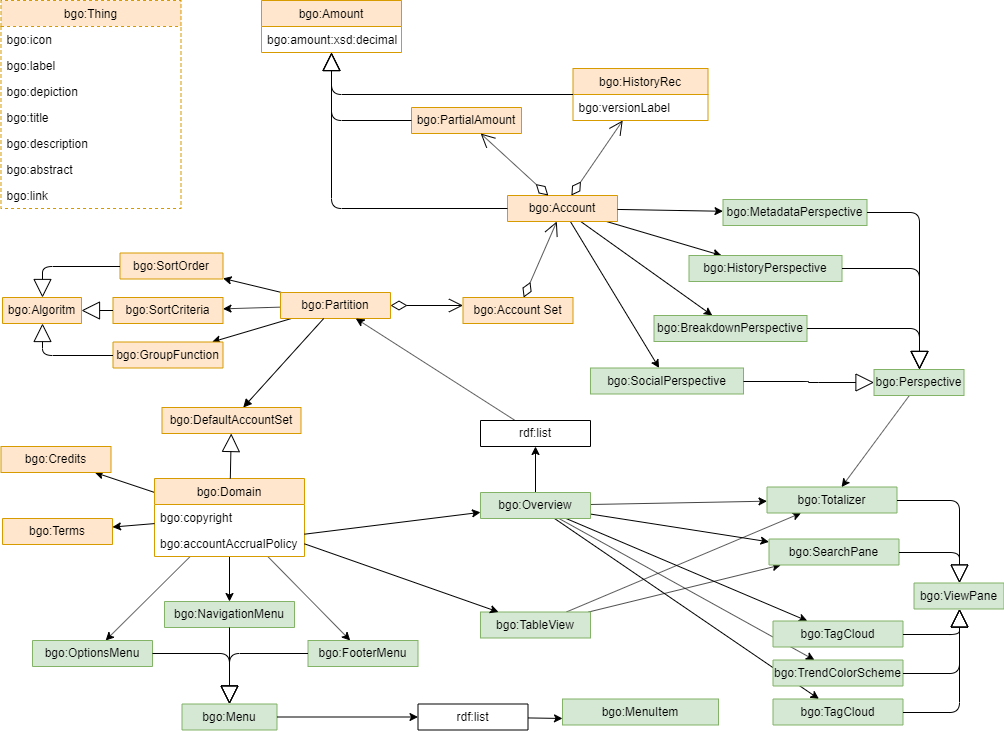
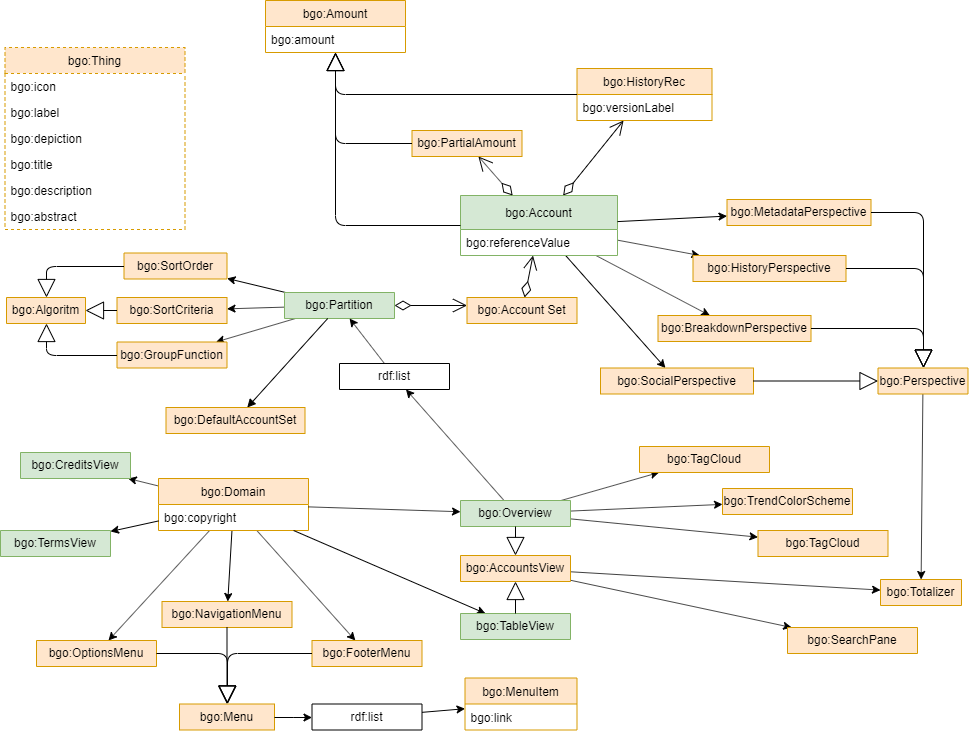
Doc refined

diff --git a/v1/bgo/README.md b/v1/bgo/README.md
@@ -8,38 +8,35 @@ The namespace for BGO is *http://linkeddata.center/lodmap-bgo/v1#*
 
 The suggested prefix for the BGO namespace is *bgo*
 
-BGO is modeled around the following classes:
-- **Account**  a versionable quantity representable with a shape (e.g., a bubble) 
-- **Domain** the set of all Accounts that share the same meaning, for instance, all the facts defined in the financial reports of a company.
-- **Partition** a collection of disjoined Account set related through the use of some **Algorithms**
+BGO is modeled around the following core classes:
 
-An account admits some **Perspectives** that highlight specific aspects (e.g., historical, decomposition, social)
+- **Account** an a-dimensional amount with an oprional reference value; normally representable with a shape (e.g., a bubble) 
+- **Domain** the set of known Accounts; for instance, all the facts defined in the financial reports of a company.
 
-Beside this, bgo defines some standard views to display accounts:
+All accounts in a *Domain* can be rapresented as a paged list of accounts (**TableView**) or as whole in a big picture (**Overview**).
 
-- the **Overview** that displaies all Accounts in a domain big picture 
-- the **Table view** that is just a paged view of the Overview.
+The overview allow to select one **Partition** from a list. A Partition is collection of disjoined **account sub set** in a domain organized through some *Algorithms*. A partition alwais contains (implicitelly or explicitelly) a **Default Account sub Set** that collects all account in the domain that are not explicitelly defined in an account subset of the partition. 
 
-Many attributes in BGO are sub-properties of homonymous properties defined in well-known vocabularies like Dublin Core Terms, W3C Cube vocabulary, and SKOS.
+Beside these, bgo defines some concepts to describe how to present/visualize/navigate specific
+aspects of an Account or a o a domain. For instance, an account admits some *Perspectives* that highlight specific aspects like metadata view (mandatory), historical evolution, breackdown, decomposition, social impacts.
 
-Semantic relationships are crucial to the definition of concepts. However, next to these structured characterizations, 
-Concepts sometimes have to be further defined using human-readable ("informal") documentation. All concepts in bgo can be annotated with:
+
+Semantic relationships are crucial to the definition of concepts. However, next to these structured characterizations, concepts have to be further defined using human-readable ("informal") documentation. A bgo (**Things**) can be annotated a set of properties derived from well-known vocabularies like Dublin Core Terms, Foaf, and SKOS.:
 
 - **icon** : a sub-property of foaf:thumbnail;
 - **depiction** : a sub-property of foaf:depiction;
 - **label**: a sub-property of skos:prefLabel;
-- **title**, **description**, **abstract* : as sub-properties of homonymous Dublin Core properties;
-- **link* : as sub-properties of rdfs:seeAlso
+- **title**, **description**, **abstract** : as sub-properties of homonymous Dublin Core properties;
 
-Icons and depiction expect a URL as a range, all other properties should be RDF string litterals or
- bgo:MDString that is a custom data type to define a string literal that should be diplayed according
+Icons and depiction expect a URL image as a range, all other properties should be RDF string litterals or
+ bgo:MDString that is a custom data type to define a string that should be diplayed according
  [Markdown](https://commonmark.org/) rendering specifications.
 
 The following picture shows the main concepts and attribute relations defined by bgo:
 
 ![UML diagram](doc/uml-diagram.png)
 
-Green boxes are user interface concepts, orange boxes are data modelling concepts.
+The green boxes represent the concepts that should be the [foaf:primaryTopic](http://xmlns.com/foaf/spec/#term_primaryTopic) of a data driven document.
 
 BGO is expressed in a [owl file](bgo.rdf) serialized as RDF xml. You can edit the file by hand or using [Protégé](httpsbgo://protege.stanford.edu/)
 
